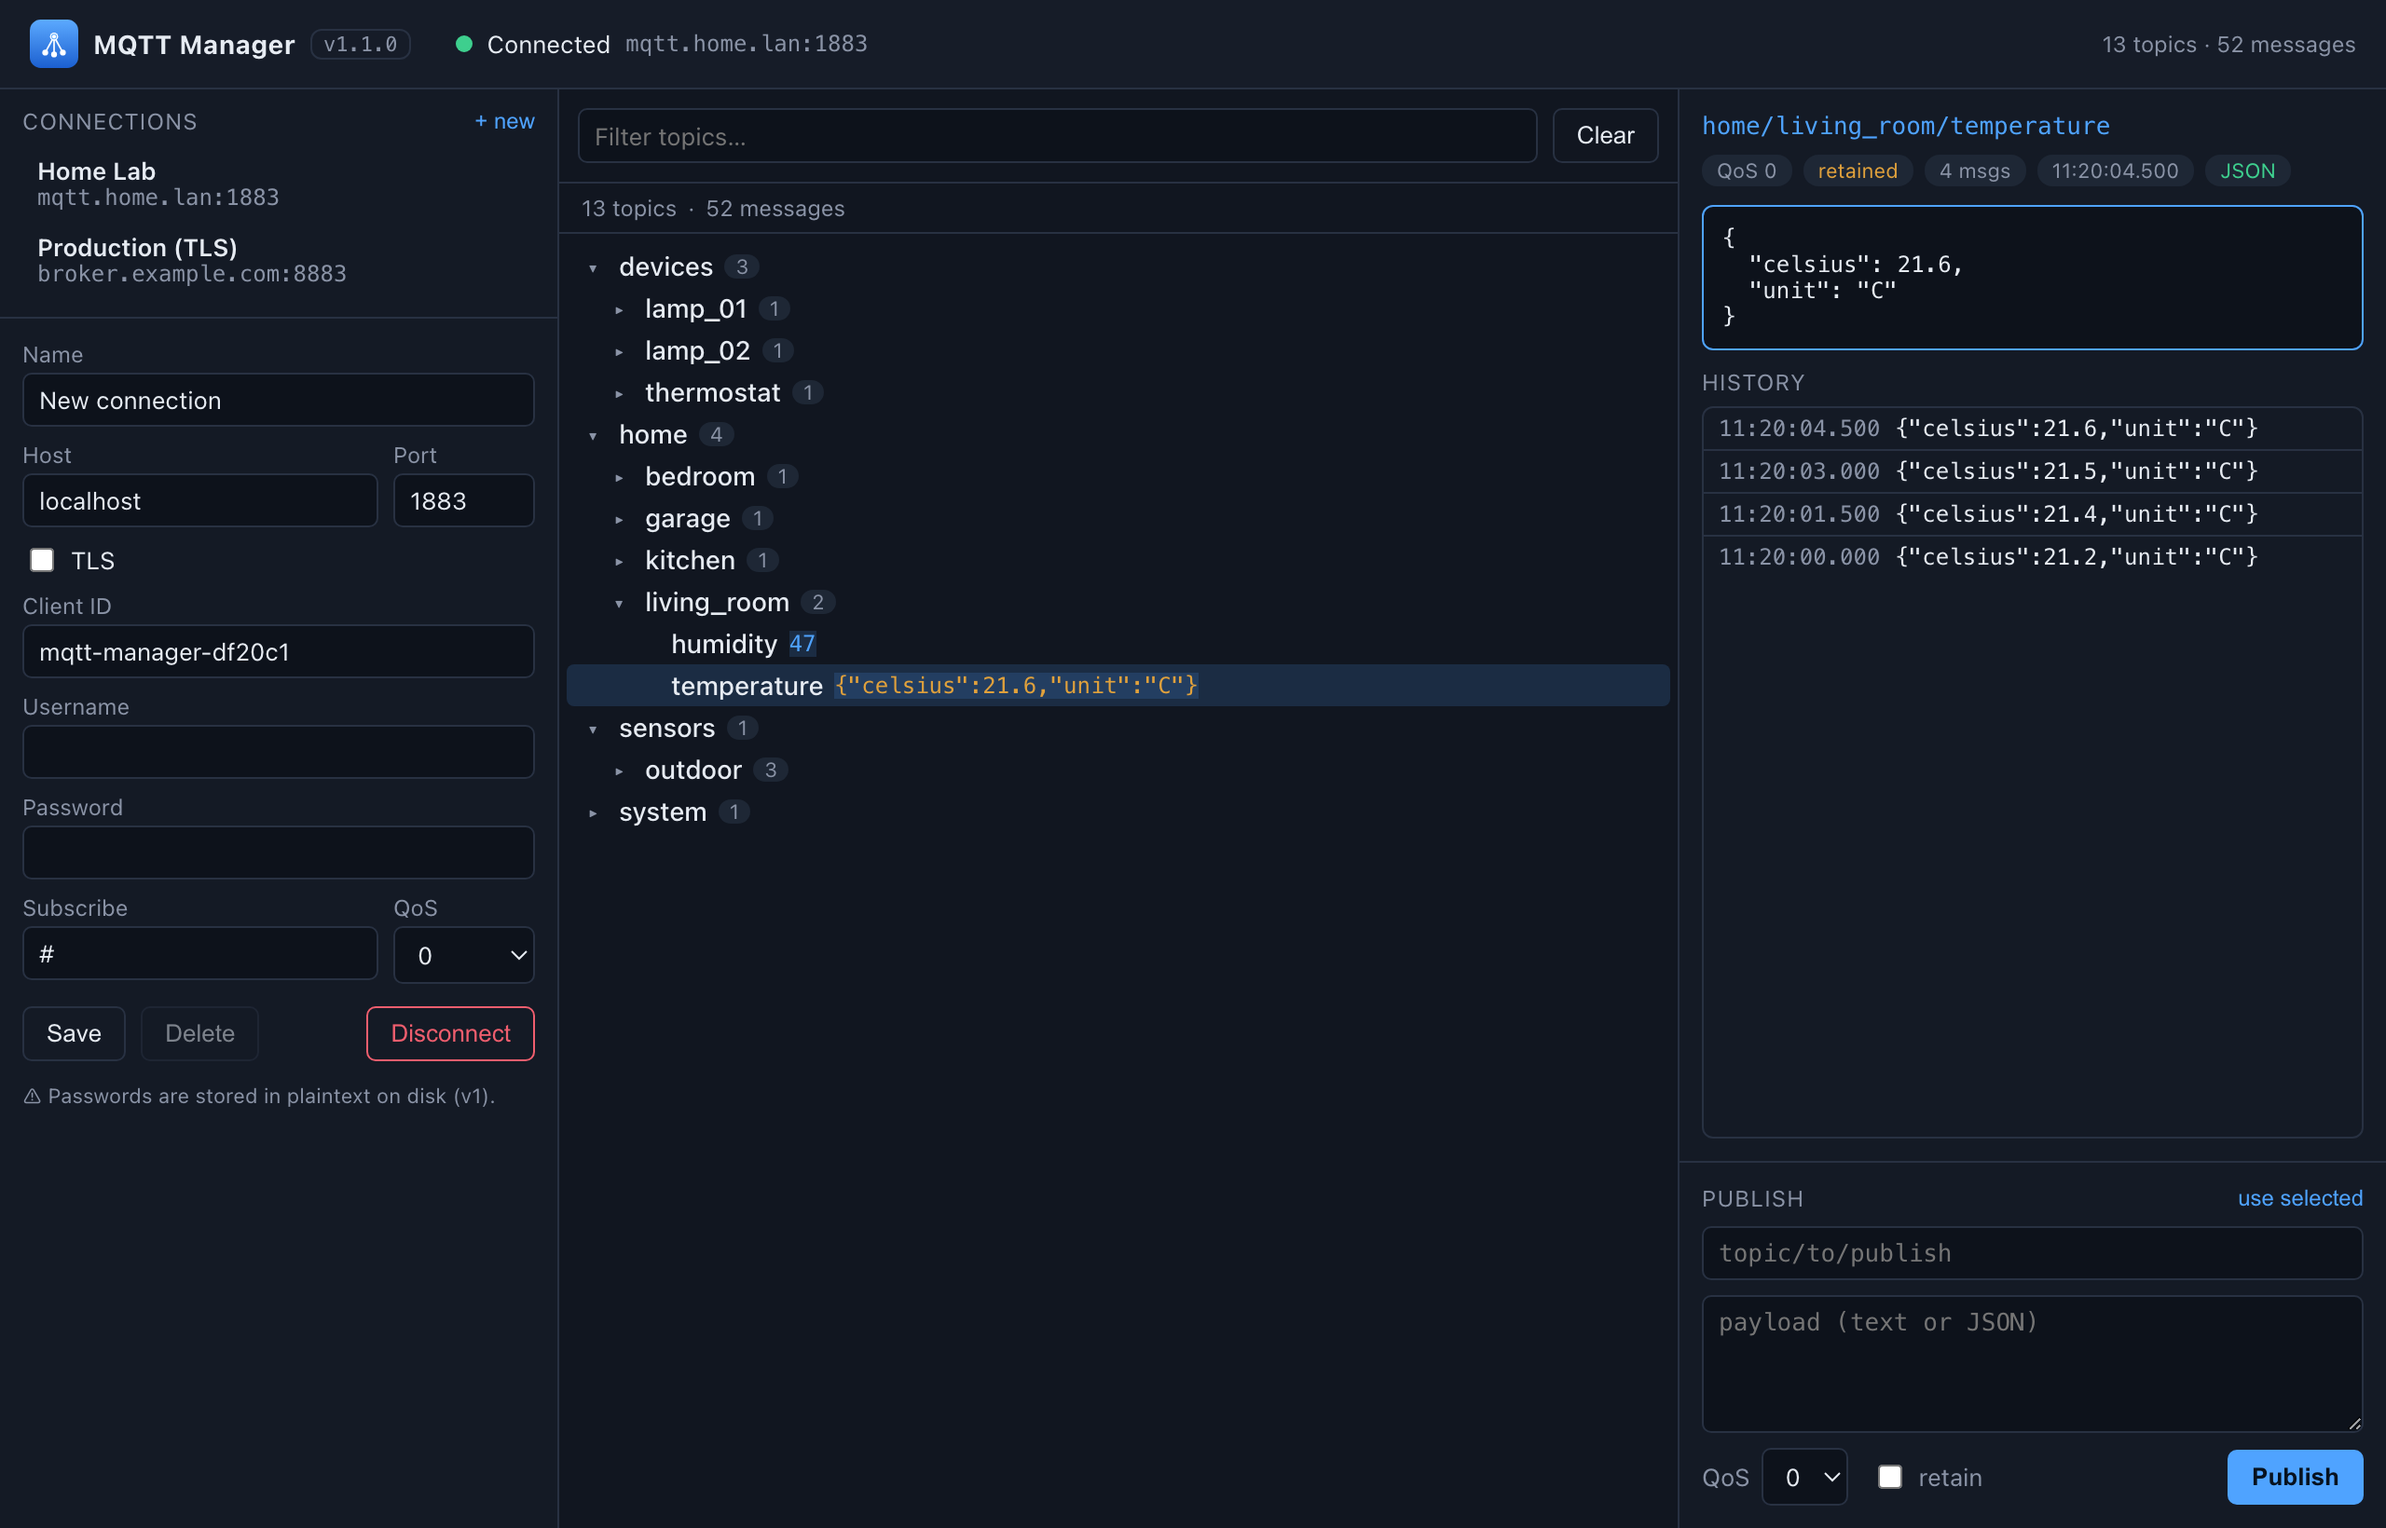
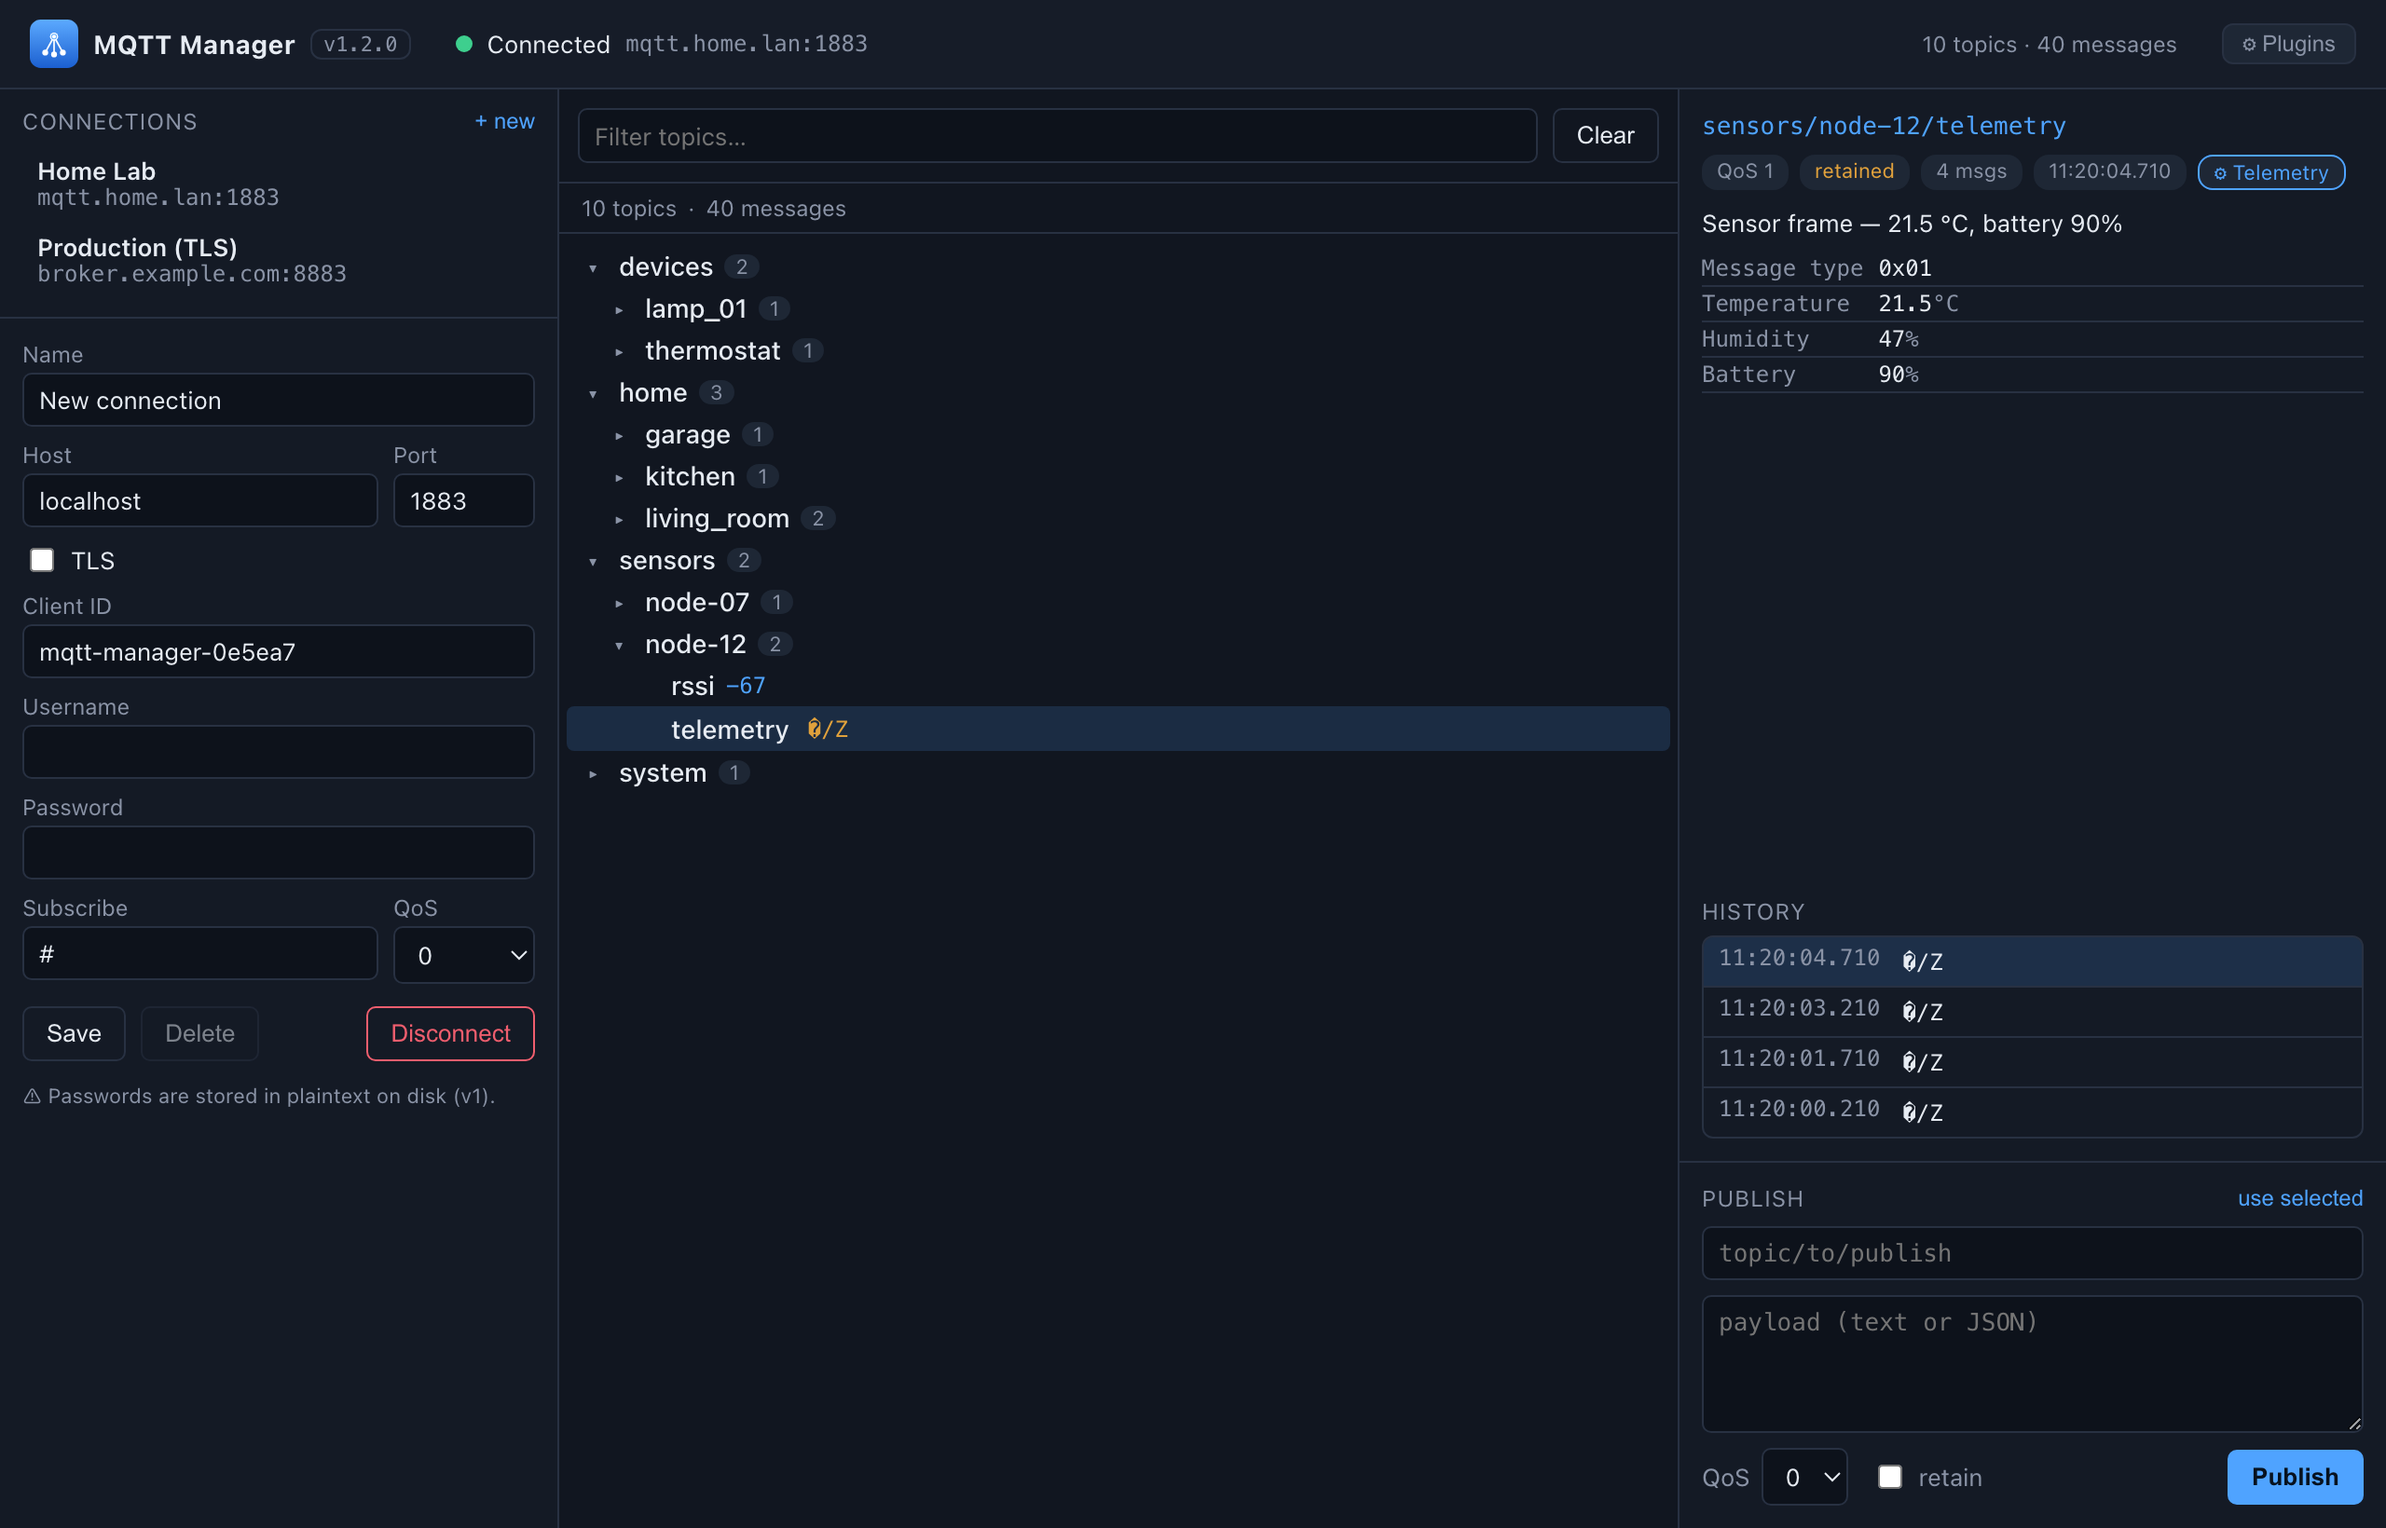
Update README screenshot to showcase plugin decoding
Re-rendered from the released frontend with a demo decoder plugin
turning a binary telemetry frame into a field view (demo data only).

diff --git a/README.md b/README.md
@@ -6,7 +6,7 @@ Svelte/TypeScript frontend).
 
 ![MQTT Manager](docs/screenshot.png)
 
-> The screenshot uses demo data, not real brokers.
+> Showing a raw binary payload decoded into fields by a custom plugin. Demo data — not real brokers.
 
 ## Features (v1)
 
